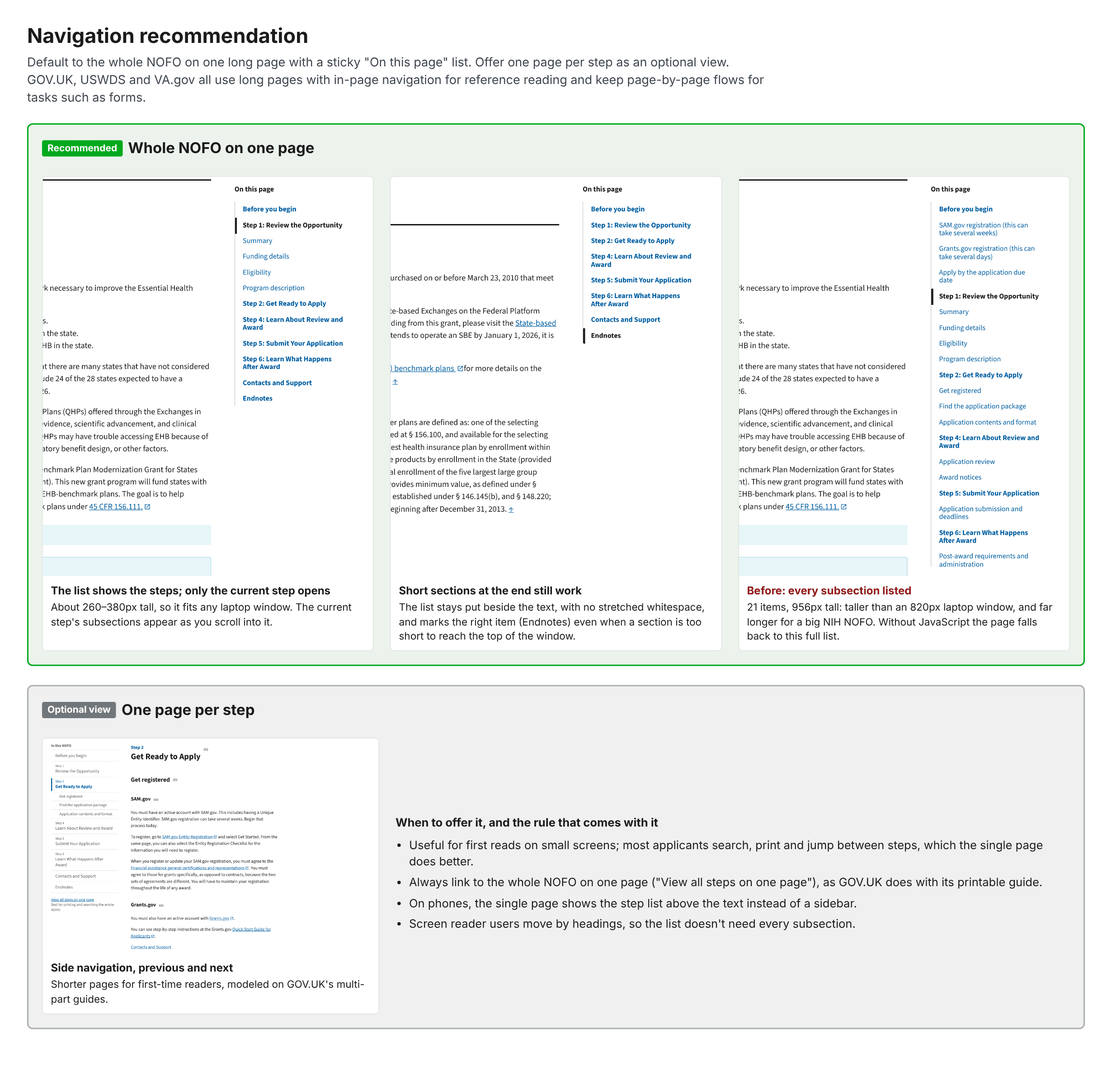
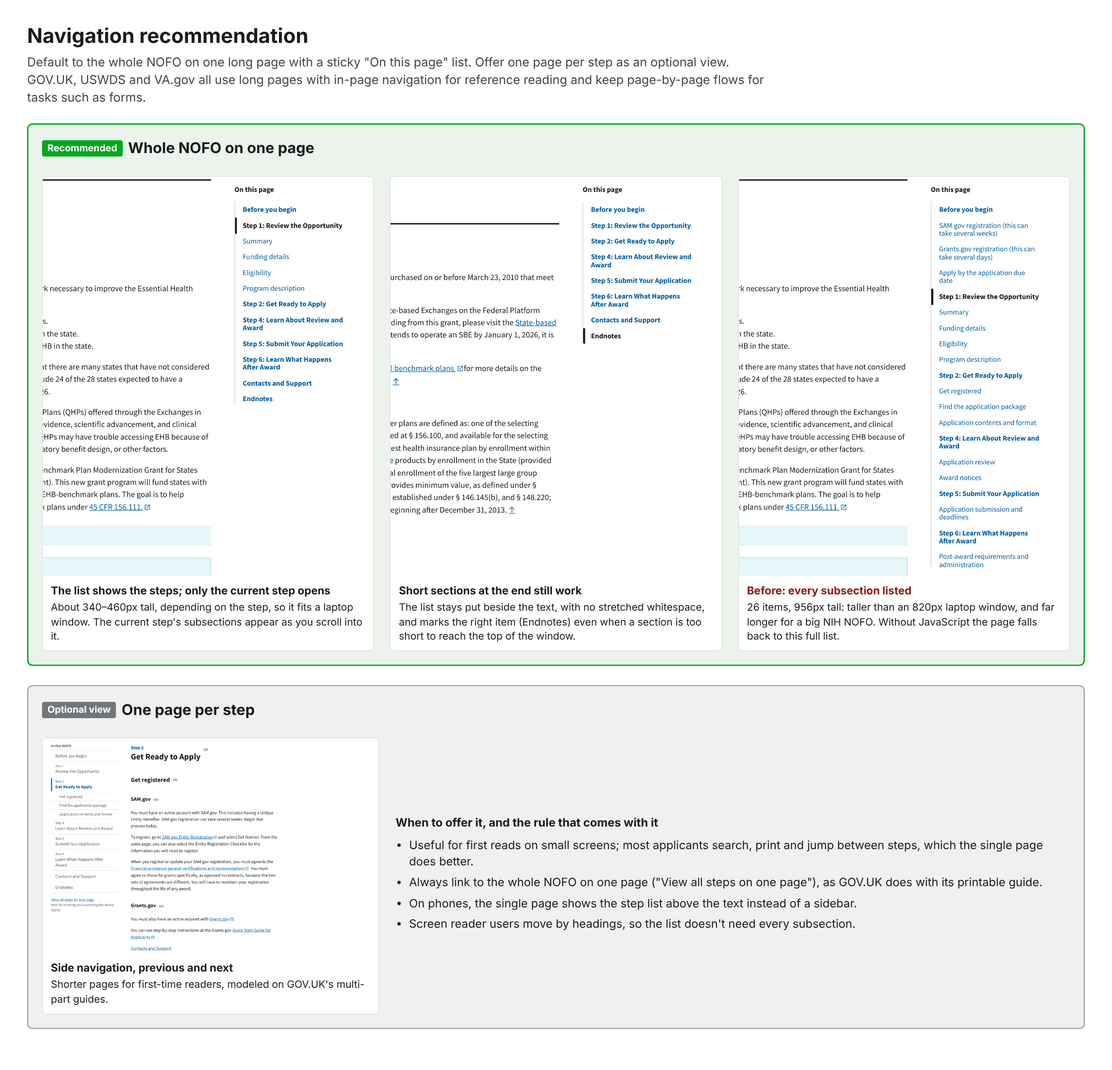
fix: address #851 review on introduction variants, phone nav and links
- Introduction: reproduce the Builder's "Before you get started" content
  (Get registered, detailed SAM.gov steps with the 2 CFR 25 exemption and
  certifications, Grants.gov, eRA Commons) and the HRSA variant's
  "Application and funding requirements" section; a deadline list always
  uses Eastern Time, as in the template.
- Phone navigation: subsection items stay visible without JavaScript;
  only the script collapses them.
- Step pages: the title block's "See all modifications" link is rewritten
  to the page that holds the Modifications section.
- Corrects navigation heights in the README and comparison image after the
  introduction and heading changes: about 340-460px collapsed versus
  956-1,007px (26 items) for the full list.

axe-core still reports 0 violations on all 17 pages.

Claude-Session: https://claude.ai/code/session_01LdT8aiDydGb9wKrQxWjjGf

diff --git a/documentation/review-evidence/851/prototypes/simpler-grants/edge-cases.html b/documentation/review-evidence/851/prototypes/simpler-grants/edge-cases.html
@@ -103,7 +103,6 @@ body{background:#fff;color:#1b1b1b;margin:0}
 .nofo-onepage .usa-in-page-nav-container{display:block}
 .nofo-onepage .usa-in-page-nav{display:block;margin:0 0 2rem;padding:1rem 1.25rem;border:1px solid var(--nofo-border);border-radius:.25rem}
 .nofo-onepage .usa-in-page-nav__nav{position:static;max-height:none;padding:0;margin:0}
-.nofo-onepage .usa-in-page-nav__item:not(.usa-in-page-nav__item--primary){display:none}
 @media(min-width:64em){
 .nofo-onepage .usa-in-page-nav-container{display:flex;gap:3rem;align-items:flex-start}
 .nofo-onepage .usa-in-page-nav{order:2;flex:0 0 16rem;position:sticky;top:var(--nofo-sticky-top);max-height:calc(100vh - var(--nofo-sticky-top) - 1rem);overflow-y:auto;margin:0;padding:0;border:0}
@@ -112,6 +111,7 @@ body{background:#fff;color:#1b1b1b;margin:0}
 .nofo-onepage .nofo-content>section+section{margin-top:3.5rem;padding-top:2rem;border-top:3px solid #1b1b1b}
 .usa-in-page-nav__link:focus{outline:.25rem solid #2491ff;outline-offset:0}
 .nofo-nav--collapsible .usa-in-page-nav__item:not(.usa-in-page-nav__item--primary):not(.is-open){display:none}
+@media(max-width:63.99em){.nofo-onepage .nofo-nav--collapsible .usa-in-page-nav__item:not(.usa-in-page-nav__item--primary){display:none}}
 .nofo-backtop{display:inline-flex;align-items:center;gap:.25rem;margin-top:1rem;font-size:.9375rem}body.theme-sgg{--nofo-accent:#286846;--nofo-accent-bg:#dbf6ed;--nofo-muted:#5d5d52;--nofo-muted-dark:#454540;--nofo-border:#e6e6e2;--nofo-display:"Public Sans",sans-serif}.theme-sgg .nofo-glance li{border-top-color:#34a37e}.theme-sgg .nofo-content h2{font-size:2rem}.theme-sgg .nofo-onepage .nofo-content>section+section{border-top-color:#171716}.nofo-crumbs .usa-breadcrumb{padding-top:0;padding-bottom:1rem}.sgg-nofo-card{border:1px solid #e6e6e2;border-left:.5rem solid #34a37e;border-radius:.5rem;padding:1.25rem 1.5rem;margin-top:1.5rem}.sgg-nofo-card h3{margin-top:0}.sgg-jump{columns:2 14rem;column-gap:2rem;padding-left:0;list-style:none;margin:1rem 0 0}.sgg-jump li{break-inside:avoid;margin:0 0 .5rem;max-width:none}.sgg-jump a{display:inline-flex;align-items:flex-start;gap:.25rem;min-height:24px}.sgg-jump .usa-icon{flex:none;margin-top:.15rem}.sgg-new{background:#fff5c2;color:#171716;font-size:.8125rem;font-weight:700;padding:.1rem .4rem;border-radius:2px;margin-left:.5rem;vertical-align:middle}#opportunity-detail-content [id]{scroll-margin-top:calc(var(--nofo-sticky-top) + .5rem)}.usa-nav__submenu[hidden]{display:none}@media(max-width:39.99em){.usa-footer__primary-section .grid-gap-lg{margin-left:-.5rem;margin-right:-.5rem}.usa-footer__primary-section .grid-gap-lg>*{padding-left:.5rem;padding-right:.5rem}}
 .ec-intro{max-width:46rem}
 .ec-toc{columns:2 16rem;column-gap:2rem;padding-left:1.25rem;margin:1rem 0 0}

diff --git a/documentation/review-evidence/851/prototypes/simpler-grants/components.html b/documentation/review-evidence/851/prototypes/simpler-grants/components.html
@@ -103,7 +103,6 @@ body{background:#fff;color:#1b1b1b;margin:0}
 .nofo-onepage .usa-in-page-nav-container{display:block}
 .nofo-onepage .usa-in-page-nav{display:block;margin:0 0 2rem;padding:1rem 1.25rem;border:1px solid var(--nofo-border);border-radius:.25rem}
 .nofo-onepage .usa-in-page-nav__nav{position:static;max-height:none;padding:0;margin:0}
-.nofo-onepage .usa-in-page-nav__item:not(.usa-in-page-nav__item--primary){display:none}
 @media(min-width:64em){
 .nofo-onepage .usa-in-page-nav-container{display:flex;gap:3rem;align-items:flex-start}
 .nofo-onepage .usa-in-page-nav{order:2;flex:0 0 16rem;position:sticky;top:var(--nofo-sticky-top);max-height:calc(100vh - var(--nofo-sticky-top) - 1rem);overflow-y:auto;margin:0;padding:0;border:0}
@@ -112,6 +111,7 @@ body{background:#fff;color:#1b1b1b;margin:0}
 .nofo-onepage .nofo-content>section+section{margin-top:3.5rem;padding-top:2rem;border-top:3px solid #1b1b1b}
 .usa-in-page-nav__link:focus{outline:.25rem solid #2491ff;outline-offset:0}
 .nofo-nav--collapsible .usa-in-page-nav__item:not(.usa-in-page-nav__item--primary):not(.is-open){display:none}
+@media(max-width:63.99em){.nofo-onepage .nofo-nav--collapsible .usa-in-page-nav__item:not(.usa-in-page-nav__item--primary){display:none}}
 .nofo-backtop{display:inline-flex;align-items:center;gap:.25rem;margin-top:1rem;font-size:.9375rem}body.theme-sgg{--nofo-accent:#286846;--nofo-accent-bg:#dbf6ed;--nofo-muted:#5d5d52;--nofo-muted-dark:#454540;--nofo-border:#e6e6e2;--nofo-display:"Public Sans",sans-serif}.theme-sgg .nofo-glance li{border-top-color:#34a37e}.theme-sgg .nofo-content h2{font-size:2rem}.theme-sgg .nofo-onepage .nofo-content>section+section{border-top-color:#171716}.nofo-crumbs .usa-breadcrumb{padding-top:0;padding-bottom:1rem}.sgg-nofo-card{border:1px solid #e6e6e2;border-left:.5rem solid #34a37e;border-radius:.5rem;padding:1.25rem 1.5rem;margin-top:1.5rem}.sgg-nofo-card h3{margin-top:0}.sgg-jump{columns:2 14rem;column-gap:2rem;padding-left:0;list-style:none;margin:1rem 0 0}.sgg-jump li{break-inside:avoid;margin:0 0 .5rem;max-width:none}.sgg-jump a{display:inline-flex;align-items:flex-start;gap:.25rem;min-height:24px}.sgg-jump .usa-icon{flex:none;margin-top:.15rem}.sgg-new{background:#fff5c2;color:#171716;font-size:.8125rem;font-weight:700;padding:.1rem .4rem;border-radius:2px;margin-left:.5rem;vertical-align:middle}#opportunity-detail-content [id]{scroll-margin-top:calc(var(--nofo-sticky-top) + .5rem)}.usa-nav__submenu[hidden]{display:none}@media(max-width:39.99em){.usa-footer__primary-section .grid-gap-lg{margin-left:-.5rem;margin-right:-.5rem}.usa-footer__primary-section .grid-gap-lg>*{padding-left:.5rem;padding-right:.5rem}}</style>
 </head>
 <body class="theme-sgg">

diff --git a/documentation/review-evidence/851/prototypes/simpler-grants/index.html b/documentation/review-evidence/851/prototypes/simpler-grants/index.html
@@ -103,7 +103,6 @@ body{background:#fff;color:#1b1b1b;margin:0}
 .nofo-onepage .usa-in-page-nav-container{display:block}
 .nofo-onepage .usa-in-page-nav{display:block;margin:0 0 2rem;padding:1rem 1.25rem;border:1px solid var(--nofo-border);border-radius:.25rem}
 .nofo-onepage .usa-in-page-nav__nav{position:static;max-height:none;padding:0;margin:0}
-.nofo-onepage .usa-in-page-nav__item:not(.usa-in-page-nav__item--primary){display:none}
 @media(min-width:64em){
 .nofo-onepage .usa-in-page-nav-container{display:flex;gap:3rem;align-items:flex-start}
 .nofo-onepage .usa-in-page-nav{order:2;flex:0 0 16rem;position:sticky;top:var(--nofo-sticky-top);max-height:calc(100vh - var(--nofo-sticky-top) - 1rem);overflow-y:auto;margin:0;padding:0;border:0}
@@ -112,6 +111,7 @@ body{background:#fff;color:#1b1b1b;margin:0}
 .nofo-onepage .nofo-content>section+section{margin-top:3.5rem;padding-top:2rem;border-top:3px solid #1b1b1b}
 .usa-in-page-nav__link:focus{outline:.25rem solid #2491ff;outline-offset:0}
 .nofo-nav--collapsible .usa-in-page-nav__item:not(.usa-in-page-nav__item--primary):not(.is-open){display:none}
+@media(max-width:63.99em){.nofo-onepage .nofo-nav--collapsible .usa-in-page-nav__item:not(.usa-in-page-nav__item--primary){display:none}}
 .nofo-backtop{display:inline-flex;align-items:center;gap:.25rem;margin-top:1rem;font-size:.9375rem}body.theme-sgg{--nofo-accent:#286846;--nofo-accent-bg:#dbf6ed;--nofo-muted:#5d5d52;--nofo-muted-dark:#454540;--nofo-border:#e6e6e2;--nofo-display:"Public Sans",sans-serif}.theme-sgg .nofo-glance li{border-top-color:#34a37e}.theme-sgg .nofo-content h2{font-size:2rem}.theme-sgg .nofo-onepage .nofo-content>section+section{border-top-color:#171716}.nofo-crumbs .usa-breadcrumb{padding-top:0;padding-bottom:1rem}.sgg-nofo-card{border:1px solid #e6e6e2;border-left:.5rem solid #34a37e;border-radius:.5rem;padding:1.25rem 1.5rem;margin-top:1.5rem}.sgg-nofo-card h3{margin-top:0}.sgg-jump{columns:2 14rem;column-gap:2rem;padding-left:0;list-style:none;margin:1rem 0 0}.sgg-jump li{break-inside:avoid;margin:0 0 .5rem;max-width:none}.sgg-jump a{display:inline-flex;align-items:flex-start;gap:.25rem;min-height:24px}.sgg-jump .usa-icon{flex:none;margin-top:.15rem}.sgg-new{background:#fff5c2;color:#171716;font-size:.8125rem;font-weight:700;padding:.1rem .4rem;border-radius:2px;margin-left:.5rem;vertical-align:middle}#opportunity-detail-content [id]{scroll-margin-top:calc(var(--nofo-sticky-top) + .5rem)}.usa-nav__submenu[hidden]{display:none}@media(max-width:39.99em){.usa-footer__primary-section .grid-gap-lg{margin-left:-.5rem;margin-right:-.5rem}.usa-footer__primary-section .grid-gap-lg>*{padding-left:.5rem;padding-right:.5rem}}</style>
 </head>
 <body class="theme-sgg">

diff --git a/documentation/review-evidence/851/prototypes/simpler-grants/nofo-standalone.html b/documentation/review-evidence/851/prototypes/simpler-grants/nofo-standalone.html
@@ -103,7 +103,6 @@ body{background:#fff;color:#1b1b1b;margin:0}
 .nofo-onepage .usa-in-page-nav-container{display:block}
 .nofo-onepage .usa-in-page-nav{display:block;margin:0 0 2rem;padding:1rem 1.25rem;border:1px solid var(--nofo-border);border-radius:.25rem}
 .nofo-onepage .usa-in-page-nav__nav{position:static;max-height:none;padding:0;margin:0}
-.nofo-onepage .usa-in-page-nav__item:not(.usa-in-page-nav__item--primary){display:none}
 @media(min-width:64em){
 .nofo-onepage .usa-in-page-nav-container{display:flex;gap:3rem;align-items:flex-start}
 .nofo-onepage .usa-in-page-nav{order:2;flex:0 0 16rem;position:sticky;top:var(--nofo-sticky-top);max-height:calc(100vh - var(--nofo-sticky-top) - 1rem);overflow-y:auto;margin:0;padding:0;border:0}
@@ -112,6 +111,7 @@ body{background:#fff;color:#1b1b1b;margin:0}
 .nofo-onepage .nofo-content>section+section{margin-top:3.5rem;padding-top:2rem;border-top:3px solid #1b1b1b}
 .usa-in-page-nav__link:focus{outline:.25rem solid #2491ff;outline-offset:0}
 .nofo-nav--collapsible .usa-in-page-nav__item:not(.usa-in-page-nav__item--primary):not(.is-open){display:none}
+@media(max-width:63.99em){.nofo-onepage .nofo-nav--collapsible .usa-in-page-nav__item:not(.usa-in-page-nav__item--primary){display:none}}
 .nofo-backtop{display:inline-flex;align-items:center;gap:.25rem;margin-top:1rem;font-size:.9375rem}body.theme-sgg{--nofo-accent:#286846;--nofo-accent-bg:#dbf6ed;--nofo-muted:#5d5d52;--nofo-muted-dark:#454540;--nofo-border:#e6e6e2;--nofo-display:"Public Sans",sans-serif}.theme-sgg .nofo-glance li{border-top-color:#34a37e}.theme-sgg .nofo-content h2{font-size:2rem}.theme-sgg .nofo-onepage .nofo-content>section+section{border-top-color:#171716}.nofo-crumbs .usa-breadcrumb{padding-top:0;padding-bottom:1rem}.sgg-nofo-card{border:1px solid #e6e6e2;border-left:.5rem solid #34a37e;border-radius:.5rem;padding:1.25rem 1.5rem;margin-top:1.5rem}.sgg-nofo-card h3{margin-top:0}.sgg-jump{columns:2 14rem;column-gap:2rem;padding-left:0;list-style:none;margin:1rem 0 0}.sgg-jump li{break-inside:avoid;margin:0 0 .5rem;max-width:none}.sgg-jump a{display:inline-flex;align-items:flex-start;gap:.25rem;min-height:24px}.sgg-jump .usa-icon{flex:none;margin-top:.15rem}.sgg-new{background:#fff5c2;color:#171716;font-size:.8125rem;font-weight:700;padding:.1rem .4rem;border-radius:2px;margin-left:.5rem;vertical-align:middle}#opportunity-detail-content [id]{scroll-margin-top:calc(var(--nofo-sticky-top) + .5rem)}.usa-nav__submenu[hidden]{display:none}@media(max-width:39.99em){.usa-footer__primary-section .grid-gap-lg{margin-left:-.5rem;margin-right:-.5rem}.usa-footer__primary-section .grid-gap-lg>*{padding-left:.5rem;padding-right:.5rem}}</style>
 </head>
 <body class="theme-sgg">

diff --git a/documentation/review-evidence/851/prototypes/simpler-grants/nofo.html b/documentation/review-evidence/851/prototypes/simpler-grants/nofo.html
@@ -103,7 +103,6 @@ body{background:#fff;color:#1b1b1b;margin:0}
 .nofo-onepage .usa-in-page-nav-container{display:block}
 .nofo-onepage .usa-in-page-nav{display:block;margin:0 0 2rem;padding:1rem 1.25rem;border:1px solid var(--nofo-border);border-radius:.25rem}
 .nofo-onepage .usa-in-page-nav__nav{position:static;max-height:none;padding:0;margin:0}
-.nofo-onepage .usa-in-page-nav__item:not(.usa-in-page-nav__item--primary){display:none}
 @media(min-width:64em){
 .nofo-onepage .usa-in-page-nav-container{display:flex;gap:3rem;align-items:flex-start}
 .nofo-onepage .usa-in-page-nav{order:2;flex:0 0 16rem;position:sticky;top:var(--nofo-sticky-top);max-height:calc(100vh - var(--nofo-sticky-top) - 1rem);overflow-y:auto;margin:0;padding:0;border:0}
@@ -112,6 +111,7 @@ body{background:#fff;color:#1b1b1b;margin:0}
 .nofo-onepage .nofo-content>section+section{margin-top:3.5rem;padding-top:2rem;border-top:3px solid #1b1b1b}
 .usa-in-page-nav__link:focus{outline:.25rem solid #2491ff;outline-offset:0}
 .nofo-nav--collapsible .usa-in-page-nav__item:not(.usa-in-page-nav__item--primary):not(.is-open){display:none}
+@media(max-width:63.99em){.nofo-onepage .nofo-nav--collapsible .usa-in-page-nav__item:not(.usa-in-page-nav__item--primary){display:none}}
 .nofo-backtop{display:inline-flex;align-items:center;gap:.25rem;margin-top:1rem;font-size:.9375rem}body.theme-sgg{--nofo-accent:#286846;--nofo-accent-bg:#dbf6ed;--nofo-muted:#5d5d52;--nofo-muted-dark:#454540;--nofo-border:#e6e6e2;--nofo-display:"Public Sans",sans-serif}.theme-sgg .nofo-glance li{border-top-color:#34a37e}.theme-sgg .nofo-content h2{font-size:2rem}.theme-sgg .nofo-onepage .nofo-content>section+section{border-top-color:#171716}.nofo-crumbs .usa-breadcrumb{padding-top:0;padding-bottom:1rem}.sgg-nofo-card{border:1px solid #e6e6e2;border-left:.5rem solid #34a37e;border-radius:.5rem;padding:1.25rem 1.5rem;margin-top:1.5rem}.sgg-nofo-card h3{margin-top:0}.sgg-jump{columns:2 14rem;column-gap:2rem;padding-left:0;list-style:none;margin:1rem 0 0}.sgg-jump li{break-inside:avoid;margin:0 0 .5rem;max-width:none}.sgg-jump a{display:inline-flex;align-items:flex-start;gap:.25rem;min-height:24px}.sgg-jump .usa-icon{flex:none;margin-top:.15rem}.sgg-new{background:#fff5c2;color:#171716;font-size:.8125rem;font-weight:700;padding:.1rem .4rem;border-radius:2px;margin-left:.5rem;vertical-align:middle}#opportunity-detail-content [id]{scroll-margin-top:calc(var(--nofo-sticky-top) + .5rem)}.usa-nav__submenu[hidden]{display:none}@media(max-width:39.99em){.usa-footer__primary-section .grid-gap-lg{margin-left:-.5rem;margin-right:-.5rem}.usa-footer__primary-section .grid-gap-lg>*{padding-left:.5rem;padding-right:.5rem}}</style>
 </head>
 <body class="theme-sgg">

diff --git a/documentation/review-evidence/851/prototypes/simpler-grants/opportunity.html b/documentation/review-evidence/851/prototypes/simpler-grants/opportunity.html
@@ -103,7 +103,6 @@ body{background:#fff;color:#1b1b1b;margin:0}
 .nofo-onepage .usa-in-page-nav-container{display:block}
 .nofo-onepage .usa-in-page-nav{display:block;margin:0 0 2rem;padding:1rem 1.25rem;border:1px solid var(--nofo-border);border-radius:.25rem}
 .nofo-onepage .usa-in-page-nav__nav{position:static;max-height:none;padding:0;margin:0}
-.nofo-onepage .usa-in-page-nav__item:not(.usa-in-page-nav__item--primary){display:none}
 @media(min-width:64em){
 .nofo-onepage .usa-in-page-nav-container{display:flex;gap:3rem;align-items:flex-start}
 .nofo-onepage .usa-in-page-nav{order:2;flex:0 0 16rem;position:sticky;top:var(--nofo-sticky-top);max-height:calc(100vh - var(--nofo-sticky-top) - 1rem);overflow-y:auto;margin:0;padding:0;border:0}
@@ -112,6 +111,7 @@ body{background:#fff;color:#1b1b1b;margin:0}
 .nofo-onepage .nofo-content>section+section{margin-top:3.5rem;padding-top:2rem;border-top:3px solid #1b1b1b}
 .usa-in-page-nav__link:focus{outline:.25rem solid #2491ff;outline-offset:0}
 .nofo-nav--collapsible .usa-in-page-nav__item:not(.usa-in-page-nav__item--primary):not(.is-open){display:none}
+@media(max-width:63.99em){.nofo-onepage .nofo-nav--collapsible .usa-in-page-nav__item:not(.usa-in-page-nav__item--primary){display:none}}
 .nofo-backtop{display:inline-flex;align-items:center;gap:.25rem;margin-top:1rem;font-size:.9375rem}body.theme-sgg{--nofo-accent:#286846;--nofo-accent-bg:#dbf6ed;--nofo-muted:#5d5d52;--nofo-muted-dark:#454540;--nofo-border:#e6e6e2;--nofo-display:"Public Sans",sans-serif}.theme-sgg .nofo-glance li{border-top-color:#34a37e}.theme-sgg .nofo-content h2{font-size:2rem}.theme-sgg .nofo-onepage .nofo-content>section+section{border-top-color:#171716}.nofo-crumbs .usa-breadcrumb{padding-top:0;padding-bottom:1rem}.sgg-nofo-card{border:1px solid #e6e6e2;border-left:.5rem solid #34a37e;border-radius:.5rem;padding:1.25rem 1.5rem;margin-top:1.5rem}.sgg-nofo-card h3{margin-top:0}.sgg-jump{columns:2 14rem;column-gap:2rem;padding-left:0;list-style:none;margin:1rem 0 0}.sgg-jump li{break-inside:avoid;margin:0 0 .5rem;max-width:none}.sgg-jump a{display:inline-flex;align-items:flex-start;gap:.25rem;min-height:24px}.sgg-jump .usa-icon{flex:none;margin-top:.15rem}.sgg-new{background:#fff5c2;color:#171716;font-size:.8125rem;font-weight:700;padding:.1rem .4rem;border-radius:2px;margin-left:.5rem;vertical-align:middle}#opportunity-detail-content [id]{scroll-margin-top:calc(var(--nofo-sticky-top) + .5rem)}.usa-nav__submenu[hidden]{display:none}@media(max-width:39.99em){.usa-footer__primary-section .grid-gap-lg{margin-left:-.5rem;margin-right:-.5rem}.usa-footer__primary-section .grid-gap-lg>*{padding-left:.5rem;padding-right:.5rem}}</style>
 </head>
 <body class="theme-sgg">

diff --git a/documentation/review-evidence/851/prototypes/uswds/components.html b/documentation/review-evidence/851/prototypes/uswds/components.html
@@ -75,7 +75,6 @@ body{background:#fff;color:#1b1b1b;margin:0}
 .nofo-onepage .usa-in-page-nav-container{display:block}
 .nofo-onepage .usa-in-page-nav{display:block;margin:0 0 2rem;padding:1rem 1.25rem;border:1px solid var(--nofo-border);border-radius:.25rem}
 .nofo-onepage .usa-in-page-nav__nav{position:static;max-height:none;padding:0;margin:0}
-.nofo-onepage .usa-in-page-nav__item:not(.usa-in-page-nav__item--primary){display:none}
 @media(min-width:64em){
 .nofo-onepage .usa-in-page-nav-container{display:flex;gap:3rem;align-items:flex-start}
 .nofo-onepage .usa-in-page-nav{order:2;flex:0 0 16rem;position:sticky;top:var(--nofo-sticky-top);max-height:calc(100vh - var(--nofo-sticky-top) - 1rem);overflow-y:auto;margin:0;padding:0;border:0}
@@ -84,6 +83,7 @@ body{background:#fff;color:#1b1b1b;margin:0}
 .nofo-onepage .nofo-content>section+section{margin-top:3.5rem;padding-top:2rem;border-top:3px solid #1b1b1b}
 .usa-in-page-nav__link:focus{outline:.25rem solid #2491ff;outline-offset:0}
 .nofo-nav--collapsible .usa-in-page-nav__item:not(.usa-in-page-nav__item--primary):not(.is-open){display:none}
+@media(max-width:63.99em){.nofo-onepage .nofo-nav--collapsible .usa-in-page-nav__item:not(.usa-in-page-nav__item--primary){display:none}}
 .nofo-backtop{display:inline-flex;align-items:center;gap:.25rem;margin-top:1rem;font-size:.9375rem}
 
 </style>

diff --git a/documentation/review-evidence/851/prototypes/uswds/one-page.html b/documentation/review-evidence/851/prototypes/uswds/one-page.html
@@ -79,7 +79,6 @@ body{background:#fff;color:#1b1b1b;margin:0}
 .nofo-onepage .usa-in-page-nav-container{display:block}
 .nofo-onepage .usa-in-page-nav{display:block;margin:0 0 2rem;padding:1rem 1.25rem;border:1px solid var(--nofo-border);border-radius:.25rem}
 .nofo-onepage .usa-in-page-nav__nav{position:static;max-height:none;padding:0;margin:0}
-.nofo-onepage .usa-in-page-nav__item:not(.usa-in-page-nav__item--primary){display:none}
 @media(min-width:64em){
 .nofo-onepage .usa-in-page-nav-container{display:flex;gap:3rem;align-items:flex-start}
 .nofo-onepage .usa-in-page-nav{order:2;flex:0 0 16rem;position:sticky;top:var(--nofo-sticky-top);max-height:calc(100vh - var(--nofo-sticky-top) - 1rem);overflow-y:auto;margin:0;padding:0;border:0}
@@ -88,6 +87,7 @@ body{background:#fff;color:#1b1b1b;margin:0}
 .nofo-onepage .nofo-content>section+section{margin-top:3.5rem;padding-top:2rem;border-top:3px solid #1b1b1b}
 .usa-in-page-nav__link:focus{outline:.25rem solid #2491ff;outline-offset:0}
 .nofo-nav--collapsible .usa-in-page-nav__item:not(.usa-in-page-nav__item--primary):not(.is-open){display:none}
+@media(max-width:63.99em){.nofo-onepage .nofo-nav--collapsible .usa-in-page-nav__item:not(.usa-in-page-nav__item--primary){display:none}}
 .nofo-backtop{display:inline-flex;align-items:center;gap:.25rem;margin-top:1rem;font-size:.9375rem}
 
 </style>

diff --git a/documentation/review-evidence/851/scripts/build_nofo_web.py b/documentation/review-evidence/851/scripts/build_nofo_web.py
@@ -279,12 +279,23 @@ def step1_section(sections):
     )
 
 
-def introduction_section(nofo, sections):
-    """The generated "Before you begin" page as a section, from the Builder's
-    byb_page.html text. Variants: full (default), hrsa, era, sole_source, none."""
-    variant = nofo.get("before_you_begin", "full")
-    if variant == "none" or any(s.get("role") == "introduction" for s in sections):
-        return None  # none, or an imported introduction that is already a section
+HRSA_REQUIREMENTS = (
+    "All activities proposed in your application and budget narrative must align with "
+    "applicable laws and policies, including but not limited to statutes, executive "
+    "orders, federal regulations and applicable judicial holdings. Accordingly, "
+    "discretionary awards shall not be used to fund, promote, encourage, subsidize, or "
+    "facilitate; racial preferences or other forms of racial discrimination by the "
+    "recipient, including activities where race or intentional proxies for race will be "
+    "used as a selection criterion for employment or program participation; denial by "
+    "the recipient of the sex binary in humans, or the belief that sex is a chosen or "
+    "mutable characteristic; illegal immigration; or any other initiatives that "
+    "compromise public safety. If an application does not align, the application will "
+    "not receive funding to the extent permitted by law and applicable court orders."
+)
+
+
+def _legacy_registration(variant, sections):
+    """byb_page.html: intro paragraph and registration subheads with Step 2 links."""
     step2 = next((s for s in sections if STEP2_RE.match(s["name"])), None)
     see_step2 = f"\n\n[See {step2['name']}](#{step2['html_id']})" if step2 else ""
     sam, gg = "[SAM.gov](https://sam.gov)", "[Grants.gov](https://grants.gov)"
@@ -329,15 +340,98 @@ def introduction_section(nofo, sections):
                 + see_step2,
             )
         )
-    when = "5:00 p.m. local time" if variant == "era" else "11:59 p.m. Eastern Time"
+    return subs
+
+
+def _get_started_registration(variant):
+    """byb_registration_get_started.html: "Get registered" with detailed steps."""
+    subs = [("Get registered", "h3", "")]
+    subs.append(
+        (
+            "SAM.gov",
+            "h4",
+            (
+                "Your organization must have an active account with SAM.gov to apply unless you are "
+                "exempt under 2 CFR 25. SAM.gov registration can take **several weeks**.\n\n"
+                "To register:\n\n"
+                "* Go to [SAM.gov Entity Registration](https://sam.gov/content/entity-registration) and "
+                "select Get Started. On the same page, you can also find the Entity Registration "
+                "Checklist for the information you will need to register.\n"
+                "* Your organization must agree to the [financial assistance general certifications and "
+                "representations](https://www.hhs.gov/sites/default/files/financial-assistance-general-certification-representations.pdf) "
+                "specifically. The certifications for contracts are different.\n\n"
+                "When you register, your organization will also receive its required Unique Entity "
+                "Identifier (UEI).\n\n"
+                "Once you register:\n\n"
+                "* Your organization will have to maintain its registration throughout the life of any award.\n"
+                "* If your organization has multiple UEIs, use the one associated with your physical location."
+            ),
+        )
+    )
+    if variant != "sole_source":
+        subs.append(
+            (
+                "Grants.gov",
+                "h4",
+                (
+                    "To apply for this opportunity, your organization and the people who will work on "
+                    "your application must have an active account with "
+                    "[Grants.gov](https://grants.gov/applicants/applicant-registration). You can follow "
+                    "the step-by-step instructions at the Grants.gov "
+                    "[Quick Start Guide for Applicants](http://www.grants.gov/quick-start-guide/applicants).\n\n"
+                    "We recommend that you register and set up your organization's account **at least "
+                    "four weeks** before the application deadline."
+                ),
+            )
+        )
+    if variant == "era":
+        subs.append(
+            (
+                "eRA Commons",
+                "h4",
+                (
+                    "To apply for this opportunity, your organization must register in "
+                    "[eRA Commons](https://public.era.nih.gov/commonsplus/public/login.era?TARGET=https%3A%2F%2Fpublic.era.nih.gov%3A443%2Fcommons). "
+                    "Your senior and key personnel must also register and affiliate their accounts with "
+                    "your organization's account.\n\n"
+                    "We recommend that you register and set up your organization's account **at least "
+                    "four weeks** before the application deadline."
+                ),
+            )
+        )
+    return subs
+
+
+def introduction_section(nofo, sections):
+    """The generated introduction as a section, from the Builder's templates.
+
+    Families: legacy "Before you begin" (byb_page.html) or "Before you get
+    started" (byb_registration_get_started.html). Variants: full (default),
+    hrsa, era, sole_source, none.
+    """
+    variant = nofo.get("before_you_begin", "full")
+    family = nofo.get("introductory_page_family", "")
+    if variant == "none" or any(s.get("role") == "introduction" for s in sections):
+        return None  # none, or an imported introduction that is already a section
+    subs = (
+        _get_started_registration(variant)
+        if family == "get_started"
+        else _legacy_registration(variant, sections)
+    )
     items = deadlines(nofo)
     if len(items) > 1:
-        due = f"Applications are due by {when}:\n\n" + "\n".join(
+        # The template uses Eastern Time for a deadline list, whatever the variant.
+        due = "Applications are due by 11:59 p.m. Eastern Time:\n\n" + "\n".join(
             f"* {d}" for d in items
         )
     else:
+        when = "5:00 p.m. local time" if variant == "era" else "11:59 p.m. Eastern Time"
         due = f"Applications are due by {when} on {items[0] if items else ''}."
+    # The get-started PDF tags this h4 under "Get registered"; on the web it is a
+    # sibling h3, because the due date isn't part of registration.
     subs.append(("Apply by the application due date", "h3", due))
+    if variant == "hrsa" and family != "get_started":
+        subs.append(("Application and funding requirements", "h3", HRSA_REQUIREMENTS))
     title = (
         "Before you get started"
         if nofo.get("introductory_page_family") == "get_started"
@@ -523,7 +617,6 @@ body{background:#fff;color:#1b1b1b;margin:0}
 .nofo-onepage .usa-in-page-nav-container{display:block}
 .nofo-onepage .usa-in-page-nav{display:block;margin:0 0 2rem;padding:1rem 1.25rem;border:1px solid var(--nofo-border);border-radius:.25rem}
 .nofo-onepage .usa-in-page-nav__nav{position:static;max-height:none;padding:0;margin:0}
-.nofo-onepage .usa-in-page-nav__item:not(.usa-in-page-nav__item--primary){display:none}
 @media(min-width:64em){
 .nofo-onepage .usa-in-page-nav-container{display:flex;gap:3rem;align-items:flex-start}
 .nofo-onepage .usa-in-page-nav{order:2;flex:0 0 16rem;position:sticky;top:var(--nofo-sticky-top);max-height:calc(100vh - var(--nofo-sticky-top) - 1rem);overflow-y:auto;margin:0;padding:0;border:0}
@@ -532,6 +625,7 @@ body{background:#fff;color:#1b1b1b;margin:0}
 .nofo-onepage .nofo-content>section+section{margin-top:3.5rem;padding-top:2rem;border-top:3px solid #1b1b1b}
 .usa-in-page-nav__link:focus{outline:.25rem solid #2491ff;outline-offset:0}
 .nofo-nav--collapsible .usa-in-page-nav__item:not(.usa-in-page-nav__item--primary):not(.is-open){display:none}
+@media(max-width:63.99em){.nofo-onepage .nofo-nav--collapsible .usa-in-page-nav__item:not(.usa-in-page-nav__item--primary){display:none}}
 .nofo-backtop{display:inline-flex;align-items:center;gap:.25rem;margin-top:1rem;font-size:.9375rem}
 """
 
@@ -807,7 +901,7 @@ def build(nofo, out):
 <a class="usa-skipnav" href="#nofo-content">Skip to {esc(s['name'])}</a>
 <main class="nofo-page">
 {mock_banner('one-page.html', 'Compare: the whole NOFO on one page')}
-{title_block(s['name'])}
+{fix_links(title_block(s['name']), f)}
 <div class="nofo-layout">
 {sidenav(i)}
 <article class="nofo-content usa-prose" id="nofo-content" tabindex="-1">

diff --git a/documentation/review-evidence/851/README.md b/documentation/review-evidence/851/README.md
@@ -22,14 +22,14 @@
 
 **Long navigation lists and short sections:**
 
-- **The list shows the steps and opens only the current step's subsections.** For this NOFO that keeps it 260–380px tall, instead of 956px with every subsection listed. The full list is taller than an 820px laptop window, and much longer for a large NIH NOFO.
+- **The list shows the steps and opens only the current step's subsections.** For this NOFO that keeps it about 340–460px tall, depending on the step and theme, instead of 956–1,007px (26 items) with every subsection listed. The full list is taller than an 820px laptop window, and much longer for a large NIH NOFO.
 - **Short final sections still work.** The list is sticky and capped at the window height, so it never stretches the page. The current item comes from scroll position, so Endnotes is marked even though it is too short to reach the top of the window.
-- **Without JavaScript, every item stays visible.** Screen reader users move by headings, so the list doesn't need every subsection to be accessible.
+- **Without JavaScript, every item stays visible**, on phones as well as desktops. Screen reader users move by headings, so the list doesn't need every subsection to be accessible.
 - **On phones, the step list sits above the text** instead of in a sidebar.
 
 **Optional: one page per step.** Shorter pages for first-time readers, modeled on GOV.UK's multi-part guides, with side navigation and previous/next links. It must always link to the whole NOFO on one page ("View all steps on one page"), as GOV.UK does with its printable guide.
 
-The image is composed from prototype screenshots taken on 2026-11-28 at 1280×820. The "before" panel is the single page with the collapsing behavior turned off.
+The image is composed from prototype screenshots taken on 2026-11-28 at 1280×820; heights were measured at that size with the current step open. The "before" panel is the single page with the collapsing behavior turned off.
 
 ## Relationship to the Builder's existing HTML
 
@@ -111,7 +111,7 @@ This summary is from the design systems' published guidance as we know it; the s
 ![The whole NOFO on one page, plain USWDS](screenshots/uswds-one-page-desktop.png)
 
 - **Title block:** OpDiv, agency, title, tagline, opportunity number, assistance listing and deadline. The PDF download is the main action, because applicant research says most people print the NOFO.
-- **Navigation:** a sticky "On this page" list on the single page. It shows the steps and opens only the current step's subsections, so it stays 260–380px tall instead of about 750px for this NOFO, and much less than the full list would be for a long NIH NOFO ([screenshot](screenshots/uswds-nav-current-step.png)). The current item follows scroll position, so short final sections such as Endnotes are marked when you reach them. Without script, every h2 and h3 item stays visible. Headings remain the main way screen reader users move around, so the navigation doesn't need to list every one. On the step pages, a sticky side navigation whose current step expands, plus previous/next links and "View all steps on one page" ([screenshot](screenshots/uswds-step-pages-desktop.png)). On phones the navigation sits above the text ([screenshot](screenshots/uswds-phone.png)).
+- **Navigation:** a sticky "On this page" list on the single page. It shows the steps and opens only the current step's subsections, so it stays about 340–460px tall instead of 956–1,007px for this NOFO, and much less than the full list would be for a long NIH NOFO ([screenshot](screenshots/uswds-nav-current-step.png)). The current item follows scroll position, so short final sections such as Endnotes are marked when you reach them. Without script, every h2 and h3 item stays visible. Headings remain the main way screen reader users move around, so the navigation doesn't need to list every one. On the step pages, a sticky side navigation whose current step expands, plus previous/next links and "View all steps on one page" ([screenshot](screenshots/uswds-step-pages-desktop.png)). On phones the navigation sits above the text ([screenshot](screenshots/uswds-phone.png)).
 - **Content mapping:** callouts become USWDS summary boxes. "Label: value" callouts (key facts, key dates, funding) become description lists. Cross-references between steps are rewritten to point to the right page. The "Basic information" metadata block is not shown; its values fill the title block and the page's meta description.
 
 ### Accessibility
@@ -258,7 +258,7 @@ Many PDF components exist because a PDF is printed, paginated and self-branded. 
 
 | Component | In the PDF | Web treatment in the prototypes |
 | --- | --- | --- |
-| Before you begin / Before you get started | Generated variants (full, HRSA, eRA, sole source) or an imported introduction | A section before Step 1, built from the Builder's `byb_page.html` text for the NOFO's variant. Its subheads are real h3s rather than styled paragraphs, so they appear in the navigation. The Adobe keyboard callout is dropped. An imported introduction section is used as is. |
+| Before you begin / Before you get started | Generated variants (full, HRSA, eRA, sole source) or an imported introduction | A section before Step 1 with the Builder's text for each family and variant. Legacy "Before you begin" (`byb_page.html`): intro, SAM.gov, Grants.gov (not sole source), eRA Commons (eRA), apply-by, and for HRSA the "Application and funding requirements" section. "Before you get started" (`byb_registration_get_started.html`): "Get registered" with the detailed SAM.gov steps (2 CFR 25 exemption, Entity Registration, certifications, UEI), Grants.gov and eRA Commons, then apply-by. Subheads are real headings, so they appear in the navigation; apply-by is a sibling h3 rather than the PDF's h4 under "Get registered". The Adobe keyboard callout is dropped. An imported introduction section is used as is. |
 | Several deadlines | Deadline list on the cover when the field contains `\|` | "Application deadlines" with each date on its own line in the title block, and a list under "Apply by the application due date" |
 | Table captions, merged cells, criterion tables | `<caption>`, raw HTML tables with `colspan`/`rowspan` | A "Table: …" paragraph becomes the `<caption>`, which also names the scroll region; merged header and body cells keep their `scope` and alignment |
 | Lettered and roman lists | `type="a"`, `list-lower-roman` and similar | List types kept, including nesting such as (c)(ii); matched case-sensitively so `a` and `A` stay distinct |
